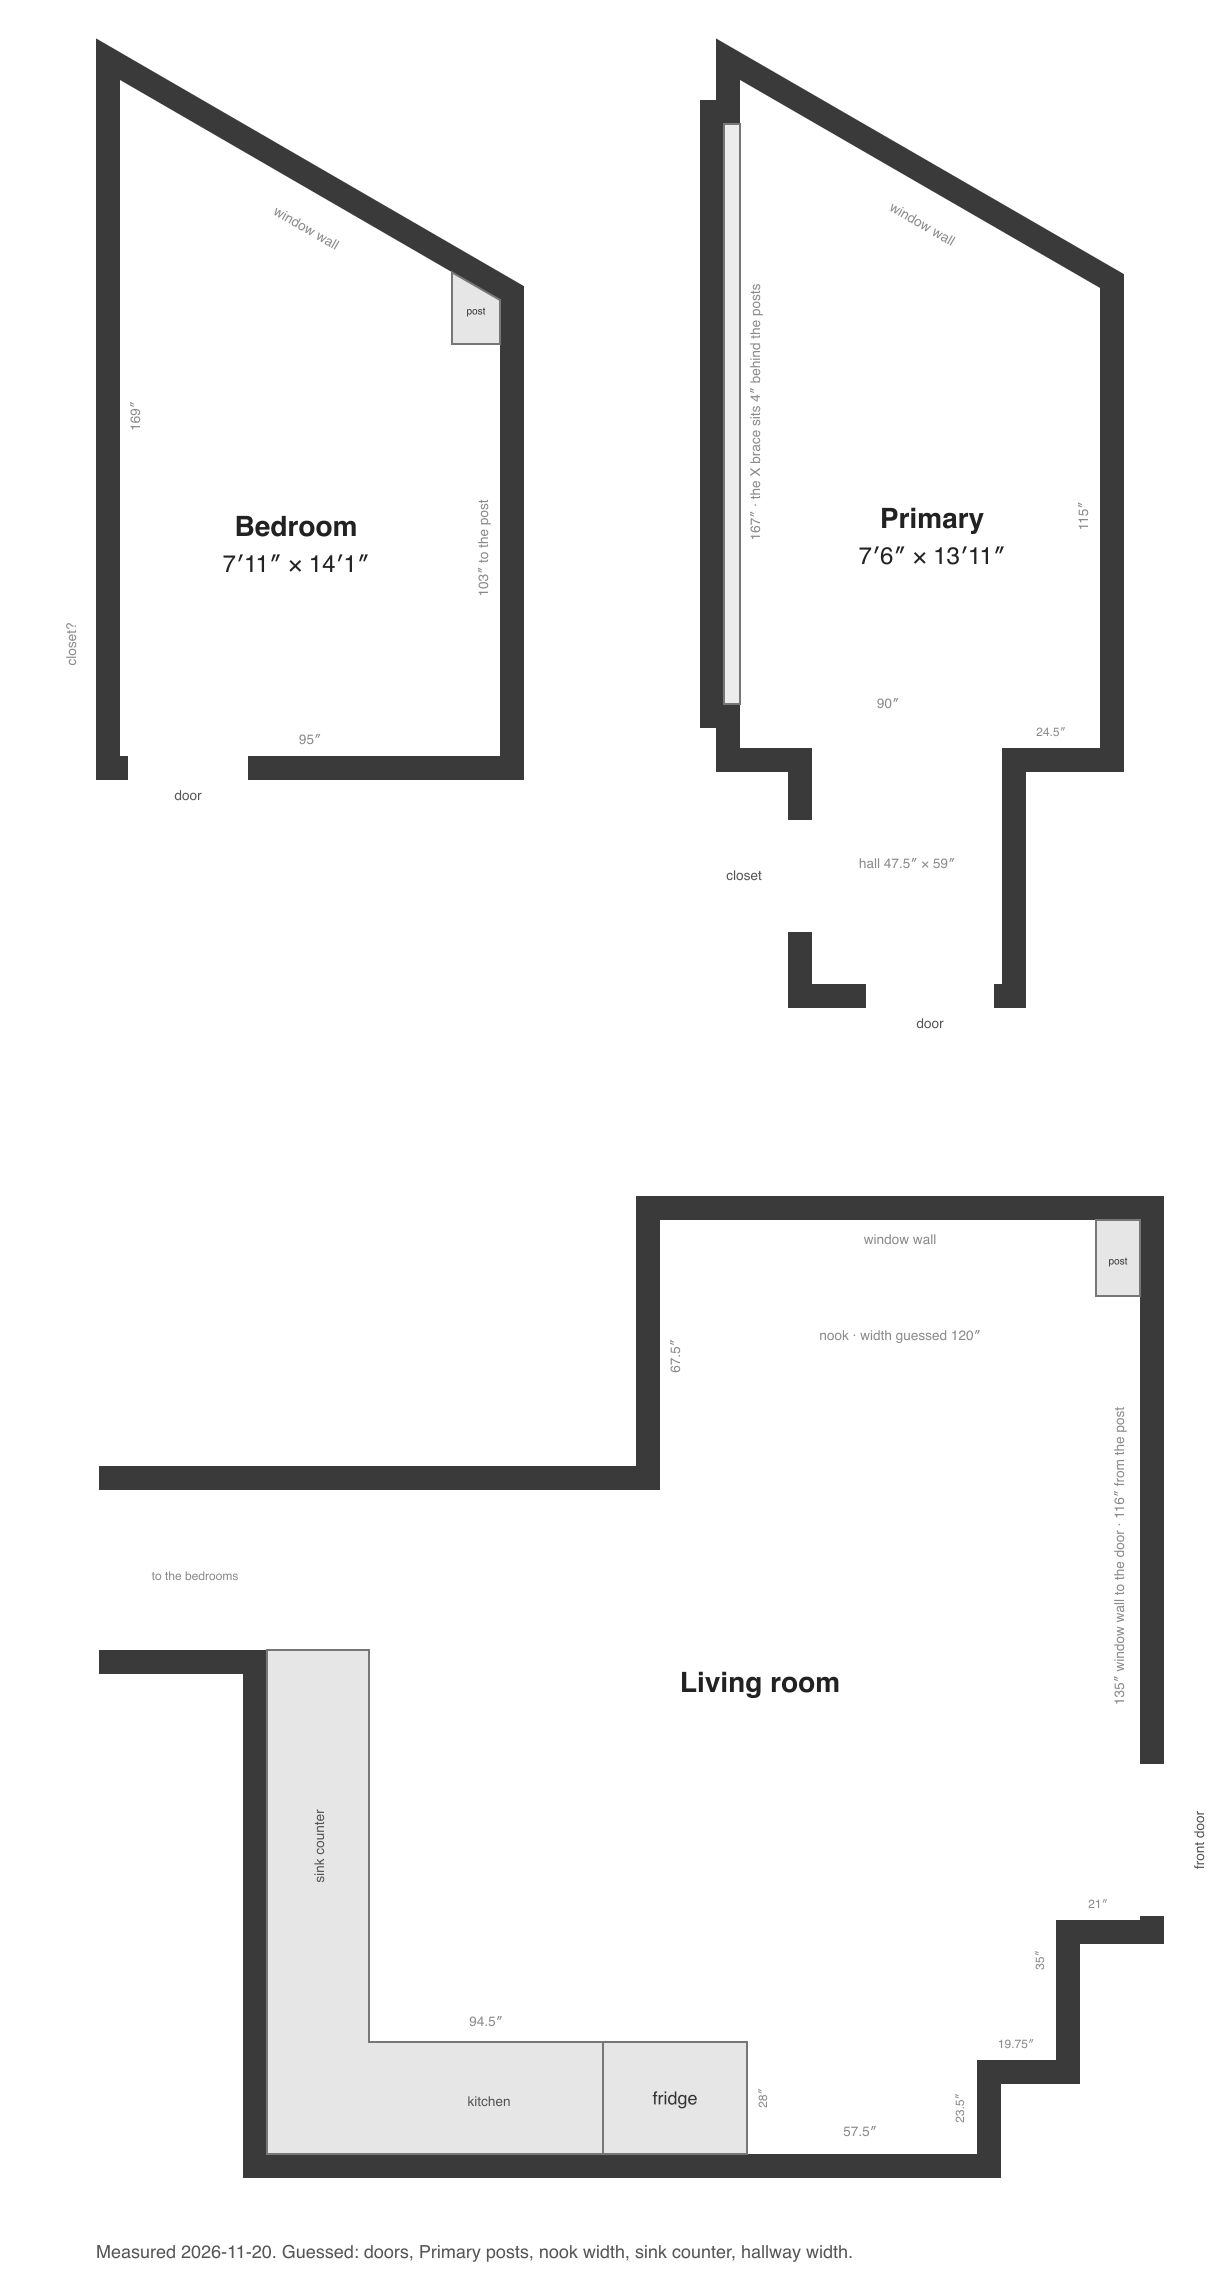
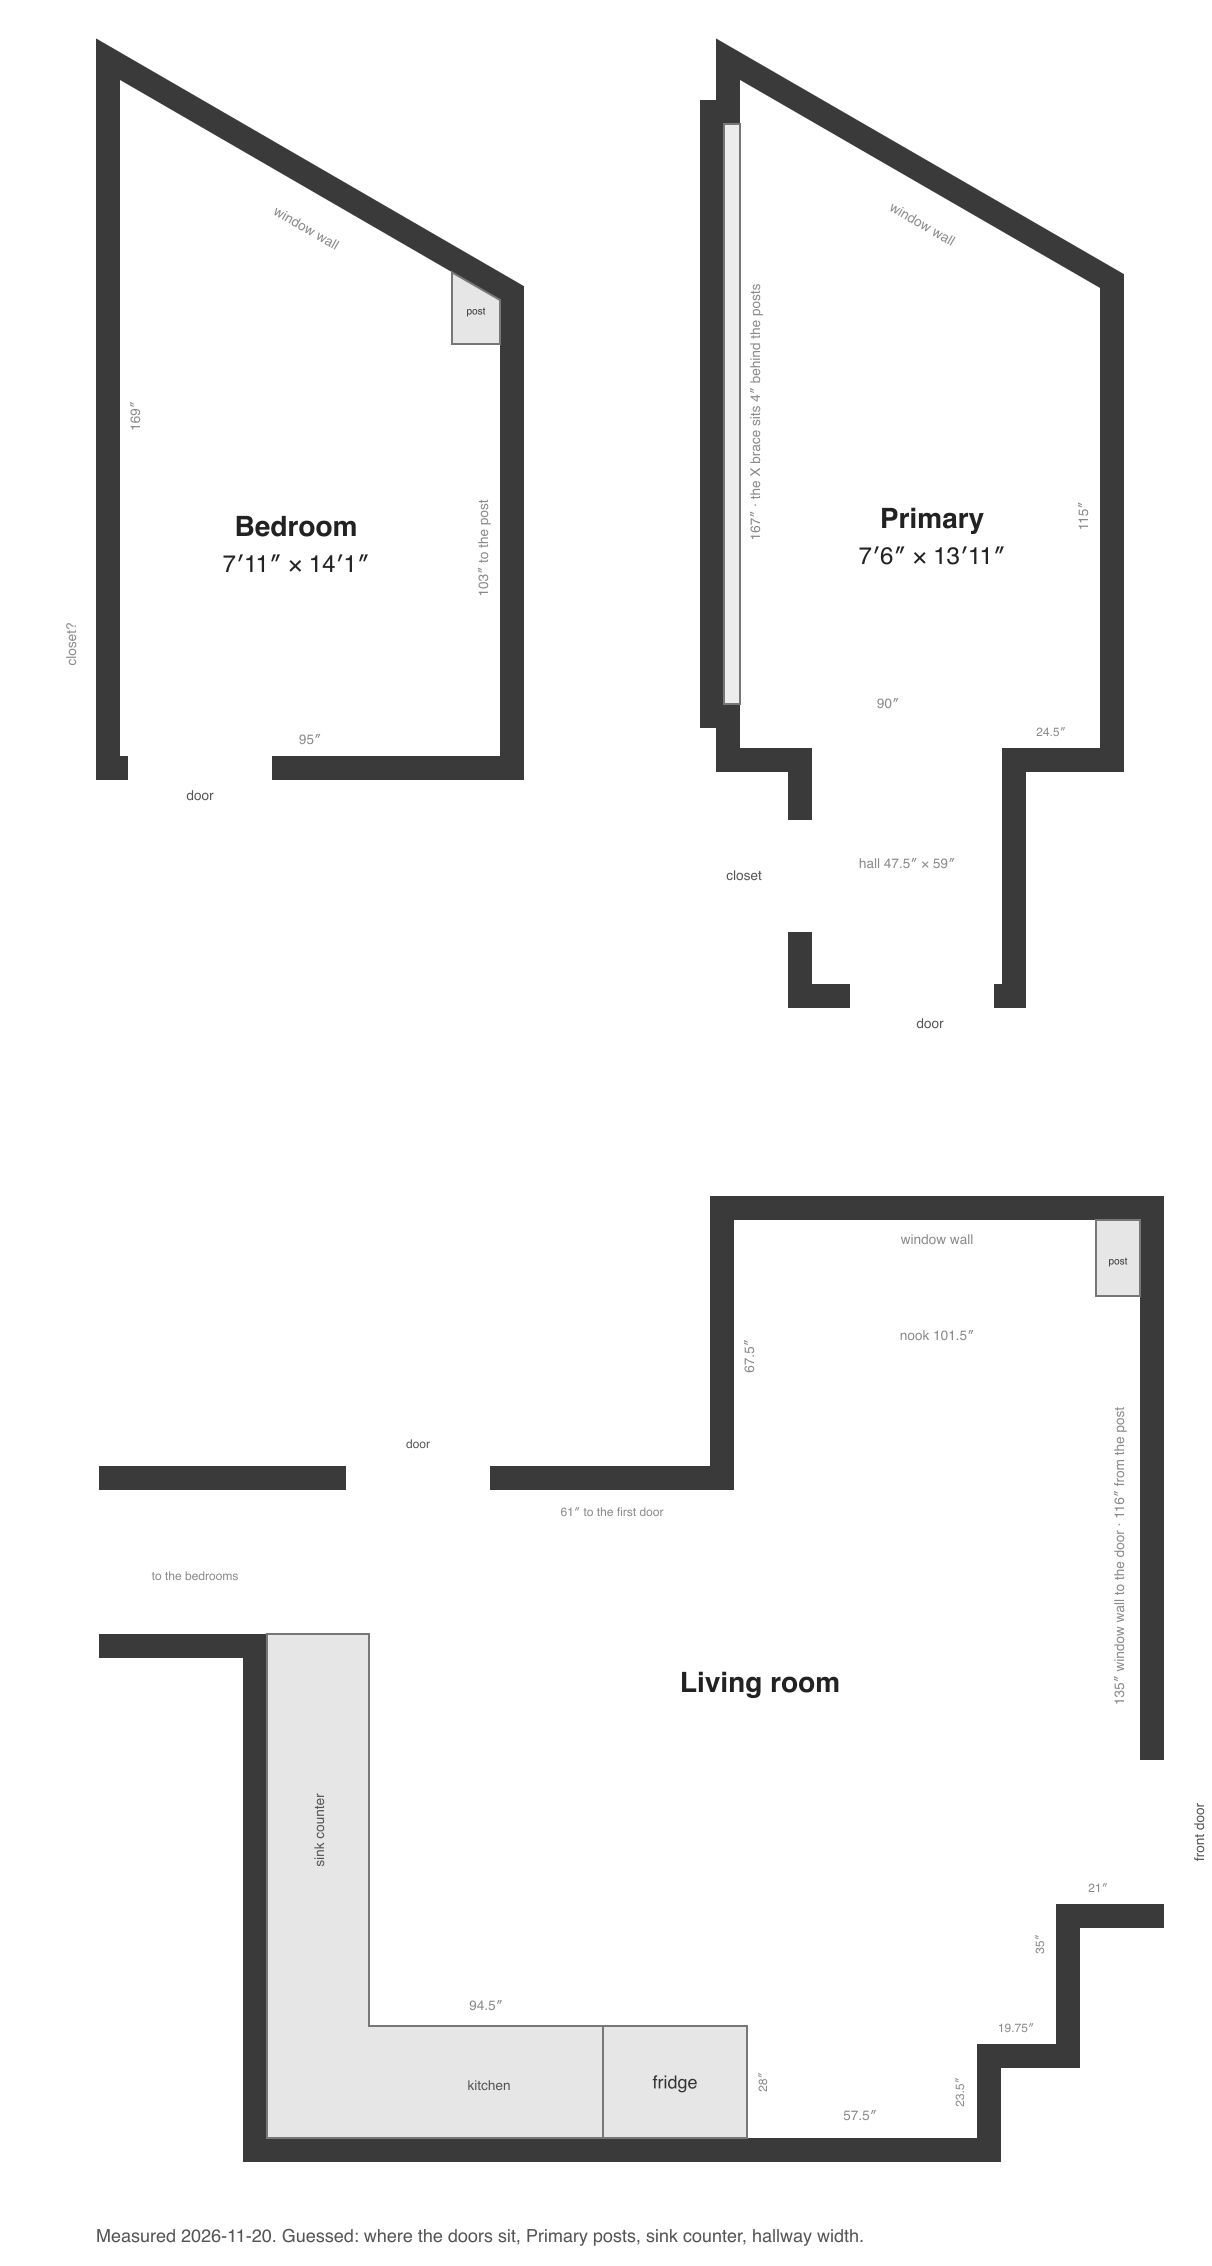
Fit check: nook is 101.5" wide, doors are 3 feet, hallway's first door marked
Claude-Session: https://claude.ai/code/session_01QpPvhx88qaX3FdiLUqKKqP

diff --git a/testing/fit-check.html b/testing/fit-check.html
@@ -245,13 +245,13 @@ const BUILT_IN = [
   // Drawn from a tape measure, not a listing (2026-11-20): the bedrooms' window wall runs at an angle, so each has a
   // long side and a short side. The rooms are drawn apart; how they join was not measured.
   // tools/draw-plan.js draws them from testing/plans/apartment-measured.plan.json.
-  { id:'measured-apartment', name:'The apartment · as measured', img:{ src:'plans/apartment-measured.png', w:1212, h:2282 }, ppi:4,
+  { id:'measured-apartment', name:'The apartment · as measured', img:{ src:'plans/apartment-measured.png', w:1212, h:2266 }, ppi:4,
     furniture:[
       {name:'Queen bed',w:60,d:80,x:30,y:56,r:0},{name:'Side Table',w:14,d:18,x:92,y:66,r:0},{name:'Desk',w:60,d:30,x:95,y:125,r:90},
       {name:'Desk Chair',w:25,d:27,x:68,y:142,r:0},{name:'Mirror',w:31,d:2,x:64,y:186,r:0},
       {name:'Queen bed',w:60,d:80,x:215,y:74,r:0},{name:'Side Table',w:14,d:18,x:200,y:74,r:0},{name:'TV',w:60,d:16,x:181,y:46,r:90},
       {name:'Dresser',w:34,d:16,x:181,y:110,r:90},{name:'Mirror',w:31,d:2,x:273,y:155,r:90},
-      {name:'Couch A',w:40,d:40,x:166,y:306,r:0},{name:'Couch B',w:40,d:40,x:206,y:306,r:0},{name:'Couch C',w:40,d:40,x:166,y:346,r:0},
+      {name:'Couch A',w:40,d:40,x:184,y:306,r:0},{name:'Couch B',w:40,d:40,x:224,y:306,r:0},{name:'Couch C',w:40,d:40,x:184,y:346,r:0},
       {name:'TV stand',w:60,d:16,x:269,y:340,r:90},{name:'Dining table',w:60,d:36,x:150,y:440,r:0}
     ] }
 ];
